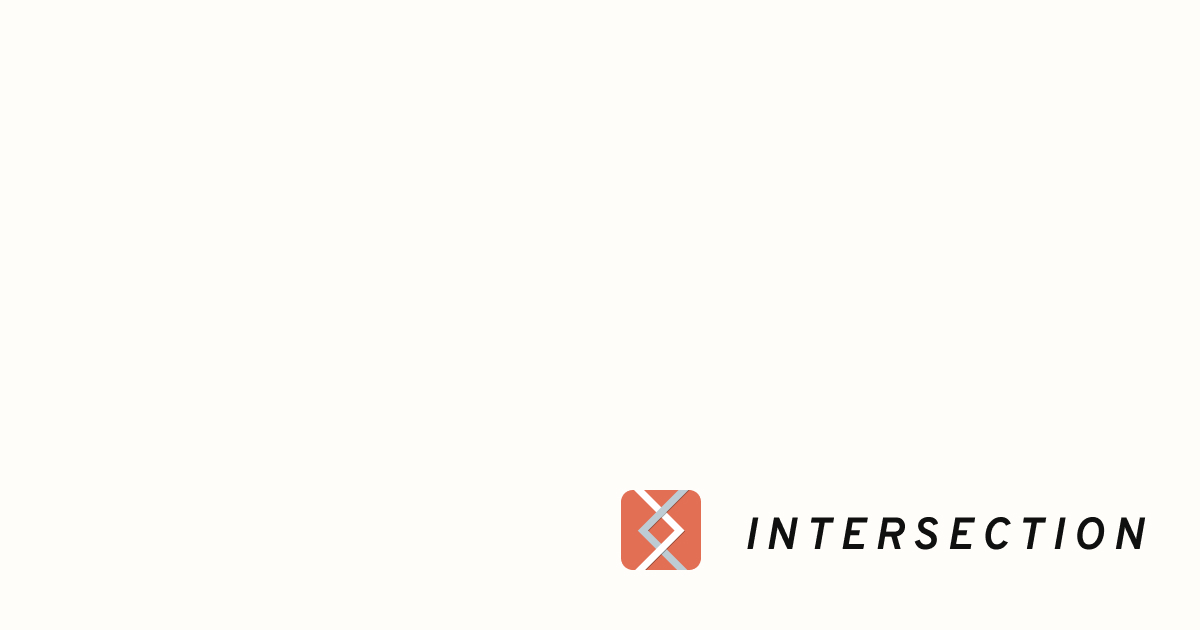
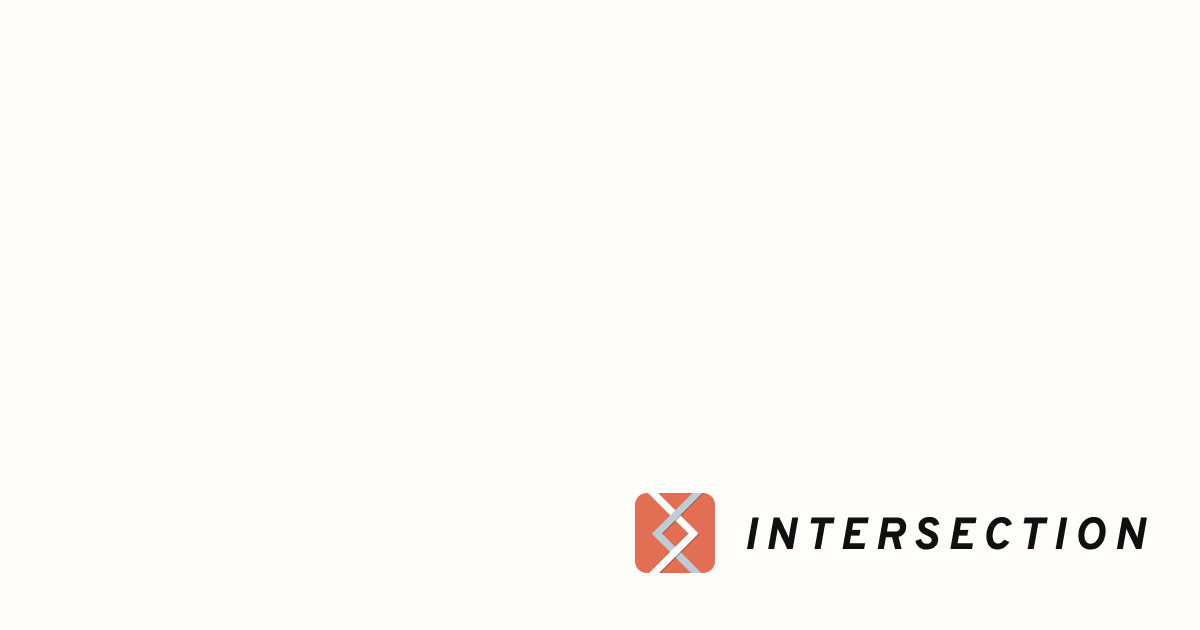
Add HeadingLayout

Changed region(s): [[0.4933, 0.754, 0.6475, 0.9349], [0.7092, 0.8143, 0.9558, 0.8746], [0.6475, 0.8143, 0.6783, 0.8444]]

diff --git a/elements/IconIntersection.tsx b/elements/IconIntersection.tsx
@@ -1,0 +1,27 @@
+import { styled } from 'stitches.config';
+import { Svg } from './Svg';
+
+const Icon = styled(Svg, {
+  size: '36px',
+  borderRadius: '6px'
+});
+
+const Background = styled('rect', {
+  size: '96px',
+  fill: 'hsl($intersection1500)'
+});
+
+export default function IconIntersection() {
+  return(
+    <Icon viewBox="0 0 96 96" xmlns="http://www.w3.org/2000/svg">
+      <Background x="0" y="0" />
+      <path d="M17.9381 -9.55127L76.2455 48.7562L70.2281 54.7736L11.9206 -3.53385L17.9381 -9.55127Z" fill="white"/>
+      <path opacity="0.36" d="M78.2274 -7.79651L84.2448 -1.77909L26.9838 55.4819L20.9664 49.4644L78.2274 -7.79651Z" fill="black"/>
+      <path d="M77.5274 -8.49652L83.5448 -2.4791L26.2839 54.7818L20.2664 48.7644L77.5274 -8.49652Z" fill="#BDCCD4"/>
+      <path opacity="0.36" d="M26.9799 43.455L82.8195 99.2947L76.8021 105.312L20.9624 49.4724L26.9799 43.455Z" fill="black"/>
+      <path d="M26.2798 42.7549L82.1195 98.5946L76.1021 104.612L20.2624 48.7724L26.2798 42.7549Z" fill="#BDCCD4"/>
+      <path opacity="0.36" d="M70.9379 43.4512L76.9553 49.4686L21.1156 105.308L15.0982 99.2908L70.9379 43.4512Z" fill="black"/>
+      <path d="M70.2379 42.7513L76.2553 48.7687L20.4156 104.608L14.3982 98.5909L70.2379 42.7513Z" fill="white"/>
+    </Icon>
+  );
+}

diff --git a/pages/intersection.tsx b/pages/intersection.tsx
@@ -9,8 +9,11 @@ import { webPage } from '@utils/schema/webPage';
 import { global } from 'stitches.config';
 
 import { Container } from '@components/layout';
-import { Heading } from '@components/headings';
+import { HeadingLayout, Heading } from '@components/headings';
 import { Section } from '@components/contentStyles';
+
+import IconIntersection from '@elements/IconIntersection';
+
 import Meta from '@projects/intersection/Meta';
 import Content from '@projects/intersection/Content';
 import Nav from '@projects/Nav';
@@ -59,7 +62,14 @@ export default function ProjectIntersection() {
       />
       <Container as="article" responsive={{'@m768': 'max640'}} space="isGroupEnd">
         <Section as="section">
-          <Heading as="h1" position="itemName" ownmargin>{pageInfo.name}</Heading>
+          <HeadingLayout responsive={{ '@initial': 'mobile', '@m768': 'tablet' }} iconm={{ '@initial': 'mobile', '@m768': 'tablet' }}>
+            <div>
+              <IconIntersection />
+            </div>
+            <Heading as="h1" position="itemName">
+              {pageInfo.name}
+            </Heading>
+          </HeadingLayout>
           <Meta />
         </Section>
         <Content />

diff --git a/pages/moment.tsx b/pages/moment.tsx
@@ -31,7 +31,7 @@ export default function ProjectMoment() {
   const router = useRouter();
 
   const pageInfo = {
-    name: 'Explore the moment when hearing a song in the movies/dramas',
+    name: 'Explore the Moment when Hearing a Song in the Movies/Dramas',
     description: 'How might we display the moment when hearing the songs you like in the movies/dramas?',
     datePublished: '2020-08-29',
     dateModified: '2021-08-23'
@@ -64,7 +64,7 @@ export default function ProjectMoment() {
       <Cover />
       <Container as="article" responsive={{'@m768': 'max640'}} space="isGroupEnd">
         <Section as="section">
-          <HeadingLayout responsive={{ '@initial': 'mobile', '@m768': 'tablet' }}>
+          <HeadingLayout responsive={{ '@initial': 'mobile', '@m768': 'tablet' }} iconl={{ '@initial': 'mobile', '@m768': 'tablet' }}>
             <div>
               <IconMoment />
             </div>

diff --git a/components/headings.tsx b/components/headings.tsx
@@ -7,14 +7,29 @@ export const HeadingLayout = styled('div', {
   variants: {
     responsive: {
       mobile: {
-        grid: `52px
-               auto / 100%`,
         rowGap: '$4'
       },
       tablet: {
-        grid: 'auto / 52px 1fr',
         columnGap: '$16',
         alignItems: 'center'
+      }
+    },
+    iconm: {
+      mobile: {
+        grid: `36px
+               auto / 100%`
+      },
+      tablet: {
+        grid: 'auto / 36px 1fr'
+      }
+    },
+    iconl: {
+      mobile: {
+        grid: `52px
+               auto / 100%`
+      },
+      tablet: {
+        grid: 'auto / 52px 1fr'
       }
     }
   }

diff --git a/projects/nuomi/Cover.tsx b/projects/nuomi/Cover.tsx
@@ -20,7 +20,7 @@ const Screenshot = styled(Image, {
 
 export default function Cover() {
   return(
-    <Wrap responsive={{ '@initial': 'mobile', '@m768': 'tabletMacbook', '@m992': 'desktopMacbook' }} project="nuomi">
+    <Wrap responsive={{ '@initial': 'mobile' }} project="nuomi">
       <Device responsive={{ '@initial': 'mobile' }} device={{ '@m768': 'tabletMacbook', '@m992': 'desktopMacbook' }}>
         {screenMobile &&
           <Screenshot src="/projects/nuomi/cover-mobile.jpg" width={272} height={484} responsive="mobile" alt="Mobile Landing Page of Nuomi’s Portfolio" />

diff --git a/stitches.config.ts b/stitches.config.ts
@@ -35,10 +35,10 @@ export const { css, styled, global, theme, keyframes, getCssString } = createCss
       nuomiBlack300: 'hsl(180,1%,20%)',
       nuomiBlack100: 'hsl(180,1%,12%)',
       nuomiBlack0: '180,1%,6%',
-      nuomiGold1200: 'hsl(32,55%,54%)',
+      nuomiGold1200: '32,55%,54%',
       nuomiGold400: '32,55%,20%',
 
-      intersection1500: 'hsl(11,71%,61%)',
+      intersection1500: '11,71%,61%',
       intersection300: 'hsl(11,71%,12%)',
 
       homeSectionTitle: '$shade600',

diff --git a/pages/pie-clockin.tsx b/pages/pie-clockin.tsx
@@ -64,7 +64,7 @@ export default function ProjectPie() {
       <Cover />
       <FullLayout as="article">
         <Container as="section" responsive={{'@m768': 'max640'}}>
-          <HeadingLayout responsive={{ '@initial': 'mobile', '@m768': 'tablet' }}>
+          <HeadingLayout responsive={{ '@initial': 'mobile', '@m768': 'tablet' }} iconl={{ '@initial': 'mobile', '@m768': 'tablet' }}>
             <div>
               <IconPie />
             </div>

diff --git a/projects/meta.tsx b/projects/meta.tsx
@@ -36,10 +36,10 @@ export const MetaItemTitle = styled('strong', {
         color: 'hsl($mtDawn)'
       },
       nuomi: {
-        color: '$nuomiGold1200'
+        color: 'hsl($nuomiGold1200)'
       },
       intersection: {
-        color: '$intersection1500'
+        color: 'hsl($intersection1500)'
       }
     }
   }

diff --git a/projects/cover.tsx b/projects/cover.tsx
@@ -8,15 +8,6 @@ export const Wrap = styled('header', {
       mobile: {
         marginBottom: '$16',
         padding: '$24 0 40px'
-      },
-      tablet: {
-        top: 0
-      },
-      tabletMacbook: {
-        top: '72px'
-      },
-      desktopMacbook: {
-        top: '36px'
       }
     },
     project: {

diff --git a/projects/process/Meta.tsx b/projects/process/Meta.tsx
@@ -1,5 +1,5 @@
 import Link from 'next/link';
-import { MetaList, MetaItem, MetaItemTitle, MetaItemValue  } from "@projects//meta";
+import { MetaList, MetaItem, MetaItemTitle, MetaItemValue  } from "@projects/meta";
 
 export default function Meta() {
   return(
